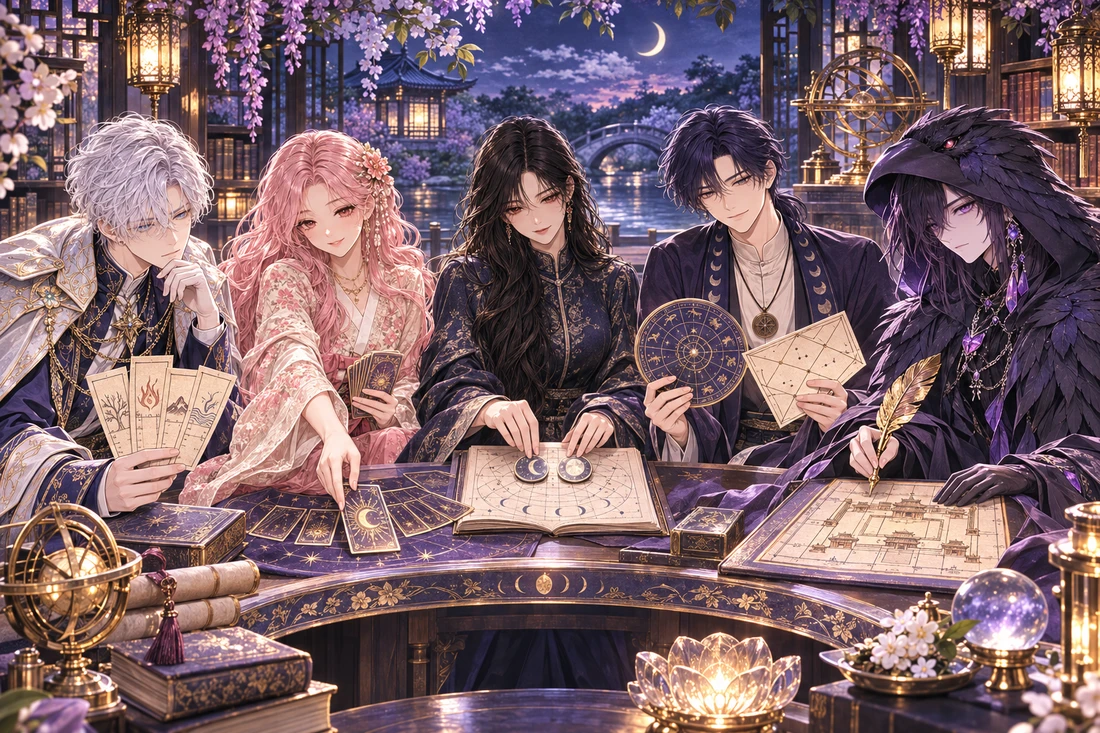
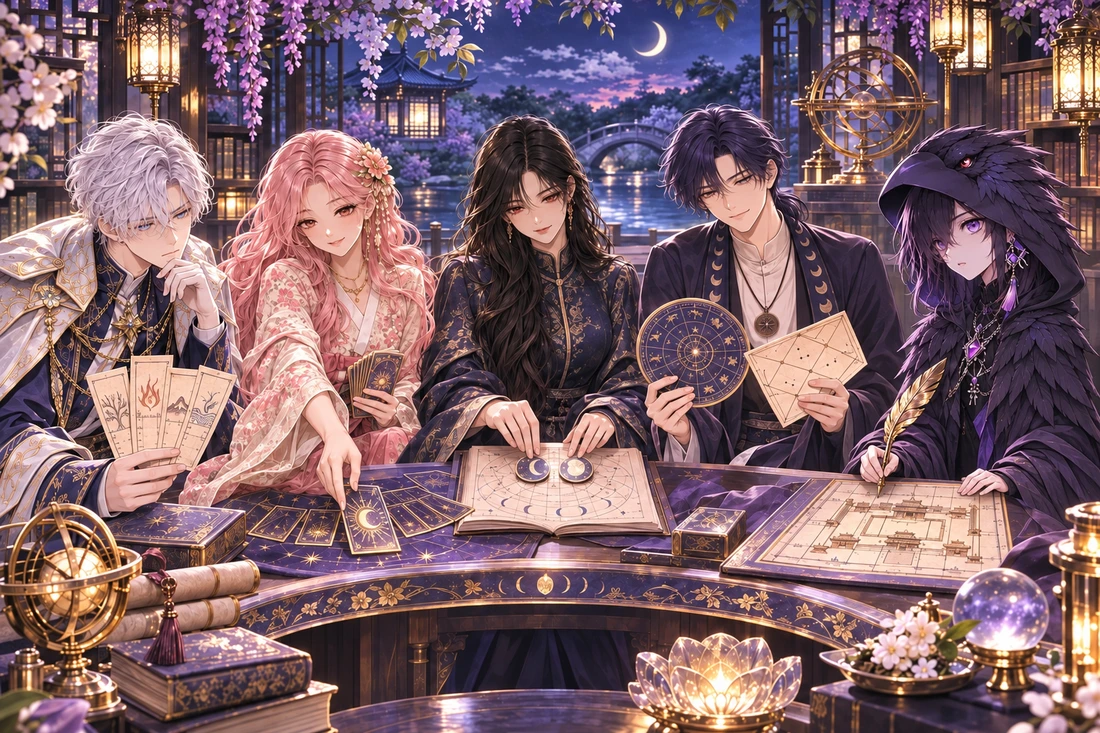
질문 카드를 서비스 입구 아래로 옮기고 무성의 소년다운 인상을 복원

diff --git a/app/components/home-question-guide.module.css b/app/components/home-question-guide.module.css
@@ -1,26 +1,71 @@
-.guide {display:grid;gap:1rem;width:min(100%,37rem);min-width:0;box-sizing:border-box;background:var(--cd-surface);color:var(--cd-text);border:1px solid var(--hm-gold-line);border-radius:var(--cd-r-card);padding:clamp(1rem,4vw,2rem);overflow-wrap:anywhere}
-.guide > h2 {font-size:clamp(1.45rem,5vw,2rem);line-height:1.38}
-.guide form,.options,.examples {display:grid;gap:.5rem}
-.guide label,.guide strong {font-weight:700}
-.guide textarea {resize:vertical;width:100%;min-width:0;box-sizing:border-box;font:inherit;font-size:1rem;line-height:1.55;background:var(--cd-bg);color:inherit;padding:.8rem;border:1px solid var(--hm-gold-ink);border-radius:var(--cd-r-sm)}
-.guide :is(button,summary,nav a) {cursor:pointer;font:inherit;color:inherit;min-height:44px}
-.guide button {background:none;border:0;text-align:left;padding:.4rem 0}
-.guide .primary {display:block;text-align:center;background:var(--cd-text);color:var(--cd-bg);border-radius:var(--cd-r-sm);padding:.75rem 1rem;text-decoration:none;font-weight:700}
-.guide :is(button,a,summary,textarea):focus-visible {outline:2px solid var(--cd-focus-ring);outline-offset:3px}
-.examples button,.options button {border-bottom:1px solid var(--hm-gold-line)}
-.examples p,.identity span,.quote span {color:var(--hm-gold-ink);font-size:.86rem}
-.guide summary {display:list-item;padding:.5rem 0}
-.guide nav {display:flex;flex-wrap:wrap;gap:.4rem 1rem}
-.guide nav a {display:inline-flex;align-items:center;text-decoration:underline}
-.identity {display:flex;align-items:center;gap:.9rem}
-.identity img {border-radius:50%;object-fit:cover}
-.identity h2 {font-size:1.35rem}
-.quote {border-inline-start:2px solid var(--hm-gold-line);padding:.6rem .85rem;background:var(--cd-bg);white-space:pre-wrap}
-.guide {background:linear-gradient(155deg,color-mix(in srgb,var(--cd-yehwa-line) 9%,var(--cd-surface)),var(--cd-surface) 45%);box-shadow:inset 0 0 0 4px var(--cd-surface),inset 0 0 0 5px var(--hm-gold-line);font-family:var(--font-body);line-height:1.65}
-.guide > h2 {font-family:var(--font-serif);text-align:center;padding-top:.2rem}
-.guide > h2::before {content:"";display:block;margin:0 auto .3rem;width:42px;height:28px;background:url('/images/home/mv/ornament-lotus-crest-160.webp') center/contain no-repeat}
-.guide .primary {min-height:48px;display:grid;place-items:center;border:1px solid var(--hm-gold-line)}
-.guide textarea {font-size:max(16px,1rem)}
-.options button {padding:.65rem .9rem;border:1px solid var(--hm-gold-line);border-radius:.6rem;background:var(--cd-surface)}
-.identity {padding:.75rem 0;border-block:1px solid var(--hm-gold-line)}
-.identity img {border:2px solid var(--hm-gold-line)}
+.guide {
+  --rule: var(--hm-gold-line);
+  display: grid;
+  gap: 1rem;
+  width: min(100%, 40rem);
+  min-width: 0;
+  box-sizing: border-box;
+  padding: clamp(20px, 4vw, 42px);
+  border: 1px solid var(--rule);
+  border-radius: 5px 24px 5px 5px;
+  background: var(--cd-surface);
+  color: var(--cd-text);
+  box-shadow: 0 14px 32px -26px var(--hm-gold-ink);
+  font: 1rem/1.65 var(--font-body);
+  overflow-wrap: anywhere;
+}
+.guide[data-step="write"] { width: min(100%, 64rem); }
+.guide > h2 {
+  font: 700 clamp(1.4rem, 3vw, 2.1rem)/1.4 var(--font-serif);
+  text-align: left;
+  padding-bottom: .85rem;
+  border-bottom: 1px solid var(--rule);
+}
+.guide > h2::before {
+  content: "";
+  display: inline-block;
+  width: 34px;
+  height: 26px;
+  margin-right: .55rem;
+  vertical-align: middle;
+  background: url('/images/home/mv/ornament-lotus-crest-160.webp') center/contain no-repeat;
+}
+.guide form, .options, .examples { display: grid; gap: .6rem; align-content: start; }
+.guide label, .guide strong { font-weight: 700; }
+.guide textarea {
+  resize: vertical;
+  width: 100%;
+  min-width: 0;
+  box-sizing: border-box;
+  font: inherit;
+  min-height: 7rem;
+  background: var(--cd-bg);
+  color: inherit;
+  padding: .9rem 1rem;
+  border: 1px solid var(--rule);
+  border-radius: 5px;
+}
+.guide textarea::placeholder { color: var(--cd-text-muted); }
+.guide :is(button,summary,nav a) { cursor: pointer; font: inherit; color: inherit; min-height: 44px; }
+.guide button { background: none; border: 0; text-align: left; padding: .4rem 0; }
+.guide .primary { display: grid; place-items: center; min-height: 48px; padding: .7rem 1rem; border-radius: 5px; background: var(--cd-text); color: var(--cd-bg); text-decoration: none; font-weight: 700; }
+.guide :is(button,a,summary,textarea):focus-visible { outline: 2px solid var(--cd-focus-ring); outline-offset: 3px; }
+.examples { gap: 0; }
+.examples button { border-bottom: 1px solid var(--rule); display: flex; justify-content: space-between; align-items: center; gap: 8px; }
+.examples button::after { content: '↗'; color: var(--hm-gold-ink); }
+.examples p, .identity span, .quote span { color: var(--hm-gold-ink); font-size: .875rem; }
+.guide summary { display: list-item; padding: .5rem 0; }
+.guide nav { display: flex; flex-wrap: wrap; gap: .4rem 1rem; }
+.guide nav a { display: inline-flex; align-items: center; text-decoration: underline; }
+.options button { padding: .65rem .9rem; border: 1px solid var(--rule); border-radius: 6px; }
+.identity { display: flex; align-items: center; gap: .9rem; padding: .75rem 0; border-block: 1px solid var(--rule); }
+.identity img { border-radius: 50%; object-fit: cover; }
+.identity h2 { font-size: 1.35rem; }
+.quote { padding: .65rem .9rem; border: 1px solid var(--rule); background: var(--cd-bg); white-space: pre-wrap; }
+@media (min-width: 760px) {
+  .guide[data-step="write"] { grid-template-columns: minmax(0, 3fr) minmax(0, 2fr); column-gap: 2.75rem; }
+  .guide[data-step="write"] > :is(h2,[role="status"]) { grid-column: 1 / -1; }
+  .guide[data-step="write"] form { grid-column: 1; grid-row: 2; }
+  .guide[data-step="write"] .examples { grid-column: 2; grid-row: 2; }
+  .guide[data-step="write"] > details { grid-column: 2; grid-row: 3; }
+}

diff --git a/app/components/HomeQuestionGuide.jsx b/app/components/HomeQuestionGuide.jsx
@@ -65,7 +65,7 @@ export default function HomeQuestionGuide(){
     try {await navigator.clipboard.writeText(question);setNotice('질문을 복사했어요.');}
     catch {setNotice('위의 질문을 길게 눌러 복사해 주세요.');}
   }
-  return <section className={s.guide} aria-labelledby="homeCardTitle">
+  return <section className={s.guide} data-step={step} aria-labelledby="homeCardTitle">
     <h2 ref={heading} tabIndex={-1} id="homeCardTitle">{step==='write'?'지금 가장 궁금한 걸 물어보세요.':step==='ask'?(answers.length?'가장 먼저 해 보고 싶은 건 무엇인가요?':'지금은 어떤 도움이 더 필요하세요?'):'내 질문에 어울리는 상담'}</h2>
     {step==='write'?<><form onSubmit={submit}><label htmlFor="home-question">나의 질문</label>
       <textarea ref={input} id="home-question" rows={3} value={question} onChange={e=>{setQuestion(e.target.value);setNotice('');}} placeholder="먼저 연락하고 싶은데, 답장이 없으면 더 힘들어질까 봐 망설여져요."/>

diff --git a/app/page.js b/app/page.js
@@ -125,8 +125,8 @@ export default function HomePage() {
             </li>;
           })}
         </HomeCardDeck>
-        {!IS_APP_BUILD && <StoryDiscovery />}
         {!IS_APP_BUILD && <HomeQuestionGuide />}
+        {!IS_APP_BUILD && <StoryDiscovery />}
         {!IS_APP_BUILD && <HomeInstallEntry />}
         {!IS_APP_BUILD && <nav className={styles.entryHelp} aria-label="주요 운세 바로가기">
           {HOME_QUICK_LINKS.map(({ key, href, title }) => (
